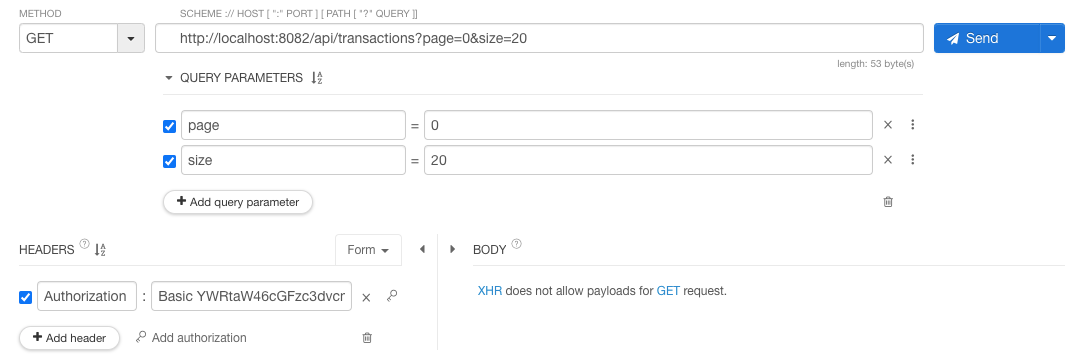
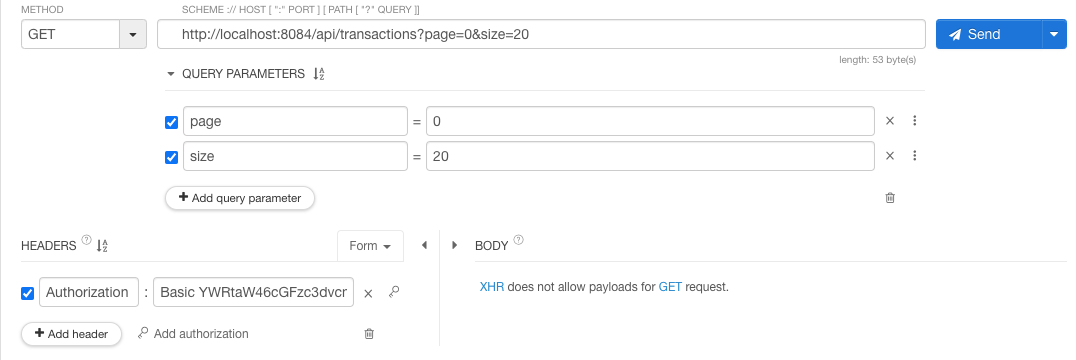
cc-transaction-system first working copy (docker environment also working)

diff --git a/transaction-consumer/src/main/java/org/cctsystem/consumer/TransactionConsumerApplication.java b/transaction-consumer/src/main/java/org/cctsystem/consumer/TransactionConsumerApplication.java
@@ -3,9 +3,11 @@ package org.cctsystem.consumer;
 import org.springframework.boot.SpringApplication;
 import org.springframework.boot.autoconfigure.SpringBootApplication;
 import org.springframework.data.jpa.repository.config.EnableJpaRepositories;
+import org.springframework.kafka.annotation.EnableKafka;
 
 @SpringBootApplication
 @EnableJpaRepositories
+@EnableKafka
 public class TransactionConsumerApplication {
 
 	public static void main(String[] args) {

diff --git a/transaction-producer/src/main/java/org/cctsystem/producer/TransactionProducerApplication.java b/transaction-producer/src/main/java/org/cctsystem/producer/TransactionProducerApplication.java
@@ -2,10 +2,12 @@ package org.cctsystem.producer;
 
 import org.springframework.boot.SpringApplication;
 import org.springframework.boot.autoconfigure.SpringBootApplication;
+import org.springframework.kafka.annotation.EnableKafka;
 import org.springframework.scheduling.annotation.EnableScheduling;
 
 @SpringBootApplication
 @EnableScheduling
+@EnableKafka
 public class TransactionProducerApplication {
 
 	public static void main(String[] args) {

diff --git a/transaction-consumer/src/main/java/org/cctsystem/consumer/model/AuthorizationLog.java b/transaction-consumer/src/main/java/org/cctsystem/consumer/model/AuthorizationLog.java
@@ -12,7 +12,7 @@ import java.time.LocalDateTime;
 @ToString
 public class AuthorizationLog {
     @Id
-    @GeneratedValue(strategy = GenerationType.IDENTITY)
+    @GeneratedValue(strategy = GenerationType.SEQUENCE)
     private Long id;
 
     @Column(name = "transaction_id", nullable = false)

diff --git a/README.md b/README.md
@@ -27,7 +27,7 @@ cc-transaction-system/
 ## Prerequisites
 - Docker
 - Docker Compose
-- JDK 11
+- JDK 17
 - Maven
 
 ## Setup
@@ -52,8 +52,8 @@ cc-transaction-system/
 ### Step 3: Monitor the Logs
 1. We can monitor the logs to see the transaction processing:
    ```sh
-   docker-compose logs -f transaction-producer
-   docker-compose logs -f transaction-consumer
+   docker-compose logs -f producer
+   docker-compose logs -f consumer
 
 
 ## Testing Dead Letter Queue (DLQ)
@@ -65,19 +65,22 @@ cc-transaction-system/
 ## Metrics
 - Metrics are exposed via Spring Boot Actuator endpoints. We can access them at:
    ```sh
-   http://localhost:8082/actuator/metrics
+   http://localhost:8084/actuator/metrics
   
 ## Verify Authorization
 - By accessing consumer API from any webclient (I'm using Talend API Tester) we can verify authorization (When we are trying to access without Authorization header, will get 401 "Unauthorized")
    ```sh
-   GET: http://localhost:8082/api/transactions
+   GET: http://localhost:8084/api/transactions
 
 ![img.png](img.png)
 - We can provide Authorization Header by providing credentials (Username: admin , Password: password)
+
 ![img_1.png](img_1.png)
 
 - Now, when we are hitting the same API will get response like below (Pagination also added)
+
 ![img_2.png](img_2.png)
+
 ![img_3.png](img_3.png)
 
 
